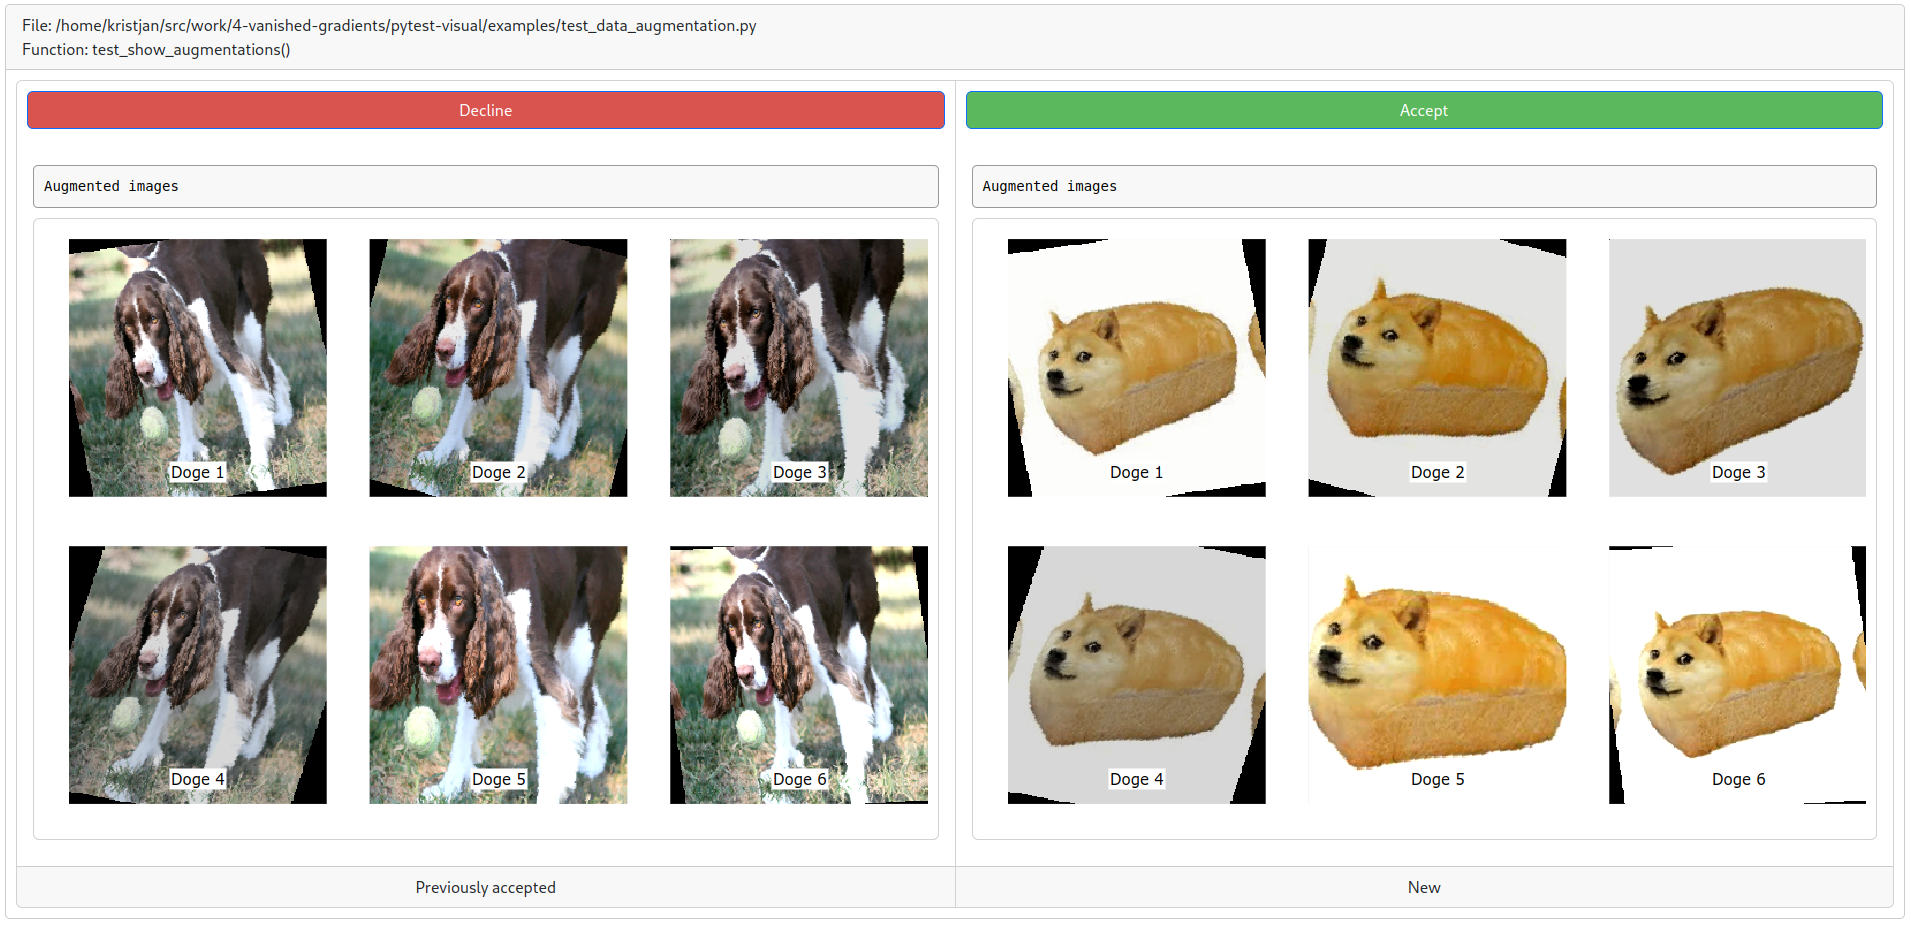
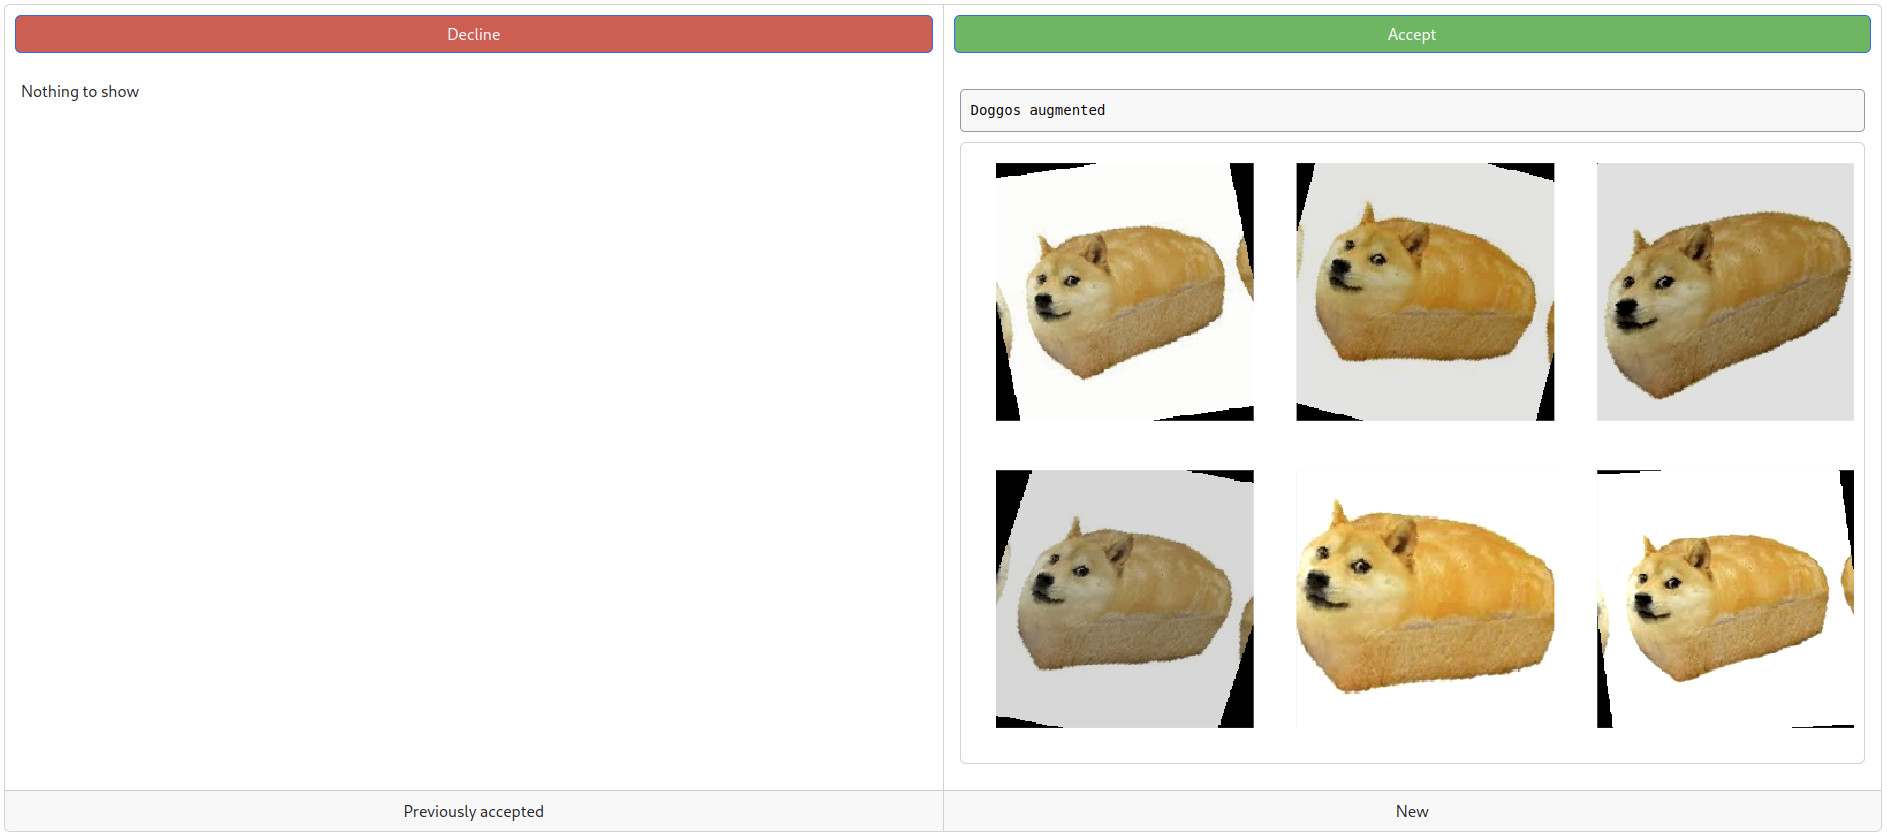
Improve examples and README

diff --git a/examples/test_data_augmentation.py b/examples/test_data_augmentation.py
@@ -22,10 +22,19 @@ def augment(image: torch.Tensor) -> torch.Tensor:
     return image
 
 
-def test_show_augmentations(visual: VisualFixture, fix_seeds: None):
-    base_image = torchvision.io.read_image("examples/assets/doge.jpg")
-    augmented = [standardize(augment(base_image).numpy()) for _ in range(6)]
-    labels = [f"Doge {i}" for i in range(1, 7)]
+# fmt: off
 
-    visual.print("Augmented images")
-    visual.show_images(augmented, labels=labels)
+# `visual` fixture indicates that the test results must be manually verified
+# `fix_seeds` fixture ensures deterministic results
+def test_show_augmentations(visual, fix_seeds):
+    # Create augmented images
+    base_image = torchvision.io.read_image("examples/assets/doge.jpg")  # Load the base image
+    augmented = [augment(base_image) for _ in range(6)]  # Your augmentation function
+    augmented = [image.numpy() for image in augmented]  # pytest-visual accepts only numpy images
+    augmented = [standardize(image) for image in augmented]  # Standardize image to uint8 with [0, 255] range and HWC format
+
+    # Show helpful text with images
+    visual.print("Doggos augmented")
+    visual.show_images(augmented)
+
+# fmt: on

diff --git a/visual/lib/ui.py b/visual/lib/ui.py
@@ -228,7 +228,7 @@ class UI:
 
         rendered_statements: list = []
         if statements is None:
-            rendered_statements.append(html.P("No statements to display"))
+            rendered_statements.append(html.P("Nothing to show"))
         else:
             for cmd, contents in statements:
                 if cmd == "print":

diff --git a/README.md b/README.md
@@ -18,32 +18,31 @@ For example, we can easily test whether an image data augmentation pipeline prod
 
 ## Example
 
-In this example, we demonstrate how to create a basic visual test case. We first create a Python file with a prefix `test_*` (eg. `test_visualization.py`), and add this function:
+In this example, we demonstrate how to create a basic visual test case. We first create a Python file with a prefix `test_*` (eg. `test_data_augmentation.py`), and add this function:
 
 ```python
-# `pytest-visual` accepts `plotly` figures
-import plotly.express as px
+# `visual` fixture indicates that the test results must be manually verified
+# `fix_seeds` fixture ensures deterministic results
+def test_show_augmentations(visual, fix_seeds):
+    # Create augmented images
+    base_image = torchvision.io.read_image("examples/assets/doge.jpg")  # Load the base image
+    augmented = [augment(base_image) for _ in range(6)]  # Your augmentation function
+    augmented = [image.numpy() for image in augmented]  # pytest-visual accepts only numpy images
+    augmented = [standardize(image) for image in augmented]  # Standardize image to uint8 with [0, 255] range and HWC format
 
-# `test_` prefix makes this a pytest test
-# `visual` argument makes this a visual test
-def test_show_square(visual):
-    # Plot the test data
-    x, y = [0, 1, 2, 3, 4, 5], [0, 1, 4, 9, 16, 25]
-    fig = px.scatter(x=x, y=y)
-
-    # You can have multiple print() and show() calls in a single case.
-    visualize.print("Square plot")
-    visualize.show(fig)
+    # Show helpful text with images
+    visual.print("Doggos augmented")
+    visual.show_images(augmented)
 ```
 
 Then run `pytest --visualize`, and open the url displayed in the terminal window (most likely `http://127.0.0.1:54545`). If the visualization looks OK, click "Accept", and pytest should complete with success.
 
-![A before and after plot displayed side by side.](examples/screenshots/square_plot.png?raw=true "Title")
-
-Here's a sample output from `examples/test_data_augmentation.py`:
+You should see the following output:
 ![A before and after image showing the effect of data augmentation on a picture of a dog.](examples/screenshots/data_augmentation.jpg?raw=true)
 
-See [Installation](#installation) for instructions on how to run these examples.
+Note that the left side is empty as this is the first time accepting this test case.
+
+The full code together with the provided `augment()` function is available at `examples/test_data_augmentation.py`. See [Installation](#installation) for instructions on how to run these examples.
 
 ## Installation
 
